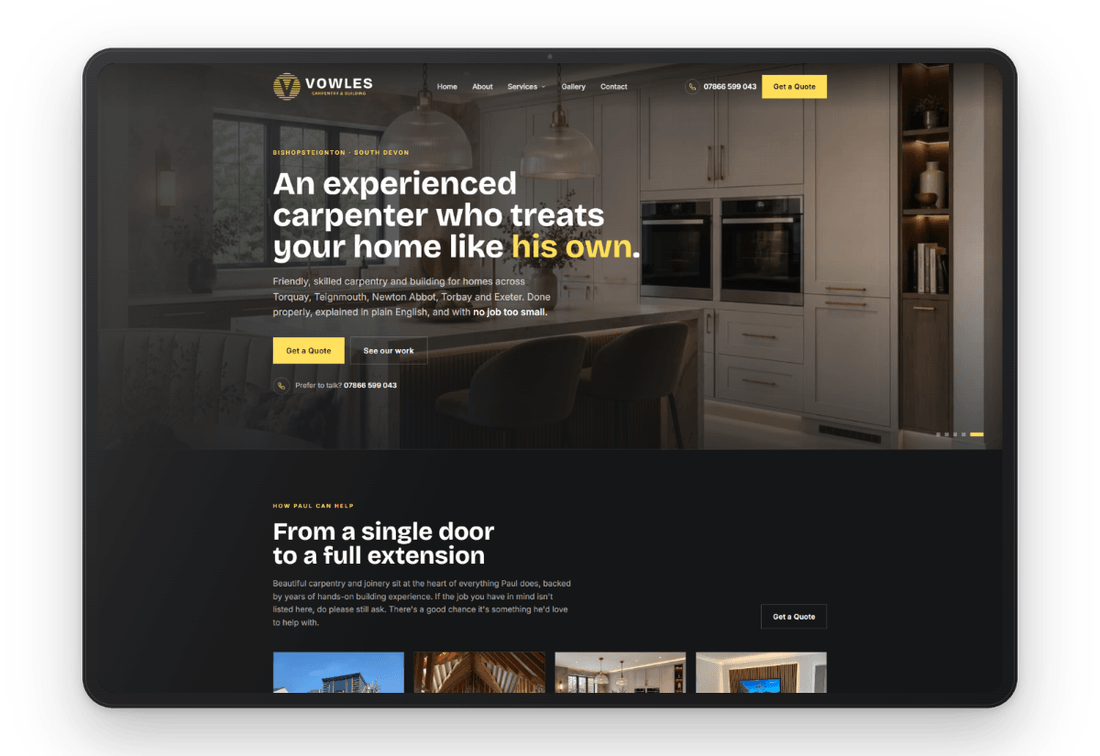
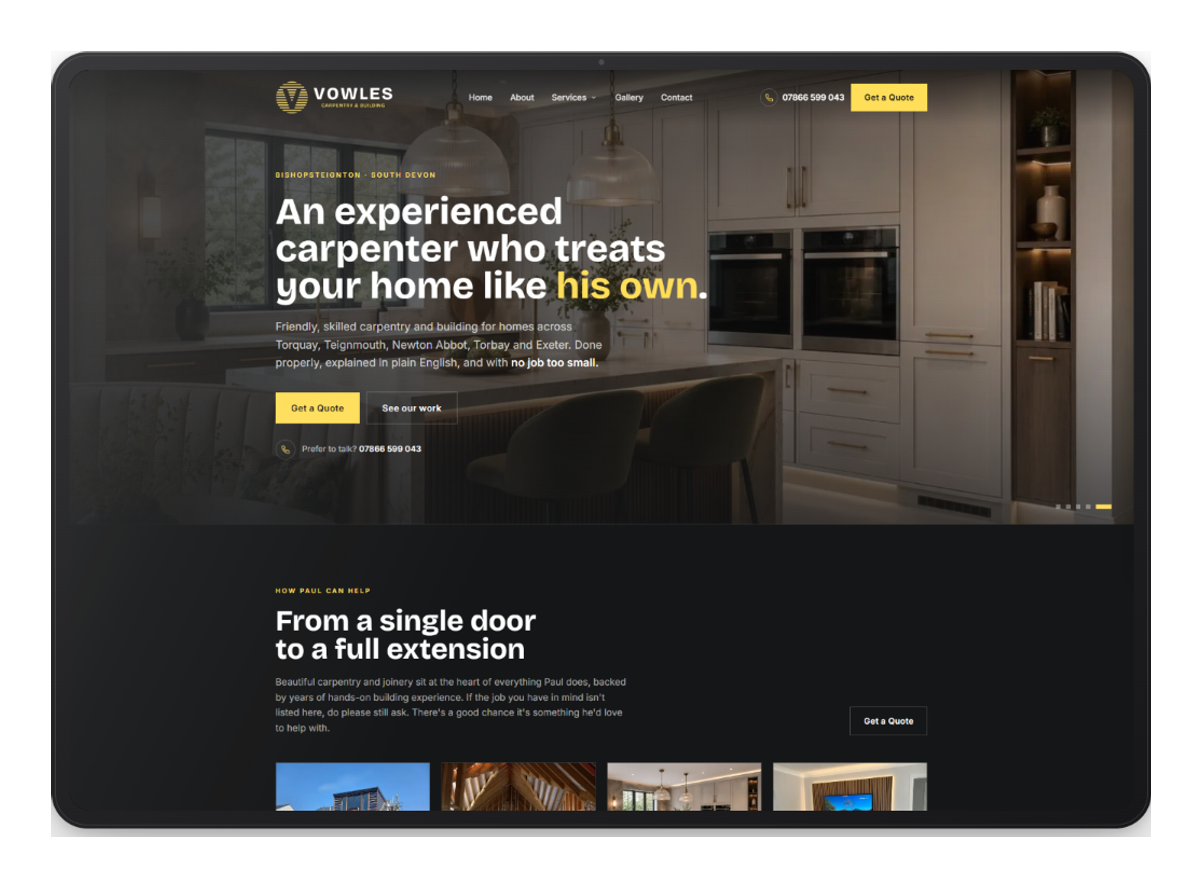
Fix carousel shadow: trim baked shadow from covers, soft rounded drop-shadow

diff --git a/components/WorkCarousel.tsx b/components/WorkCarousel.tsx
@@ -49,7 +49,7 @@ export default function WorkCarousel() {
 
       {/* Coverflow stage */}
       <div
-        className="relative mx-auto h-[62vw] max-h-[620px] select-none"
+        className="relative mx-auto h-[66vw] max-h-[700px] select-none"
         role="group"
         aria-roledescription="carousel"
         aria-label="Selected work"
@@ -86,7 +86,7 @@ export default function WorkCarousel() {
               }
               tabIndex={visible ? 0 : -1}
               onClick={() => (isActive ? setOpen(true) : setActive(i))}
-              className="absolute left-1/2 top-1/2 aspect-[1200/825] w-[86vw] max-w-[900px] transition-[transform,opacity] duration-[550ms] ease-out will-change-transform"
+              className="absolute left-1/2 top-1/2 aspect-[1200/886] w-[86vw] max-w-[950px] transition-[transform,opacity] duration-[550ms] ease-out will-change-transform"
               style={{
                 transform: `translate(-50%, -50%) translateX(${d * 62}%) scale(${
                   isActive ? 1 : 0.78
@@ -101,7 +101,7 @@ export default function WorkCarousel() {
               <img
                 src={p.cover}
                 alt={p.title}
-                className="h-full w-full object-contain drop-shadow-[0_10px_20px_rgba(31,29,26,0.09)]"
+                className="h-full w-full object-contain drop-shadow-[0_16px_26px_rgba(31,29,26,0.12)]"
                 draggable={false}
               />
             </button>
